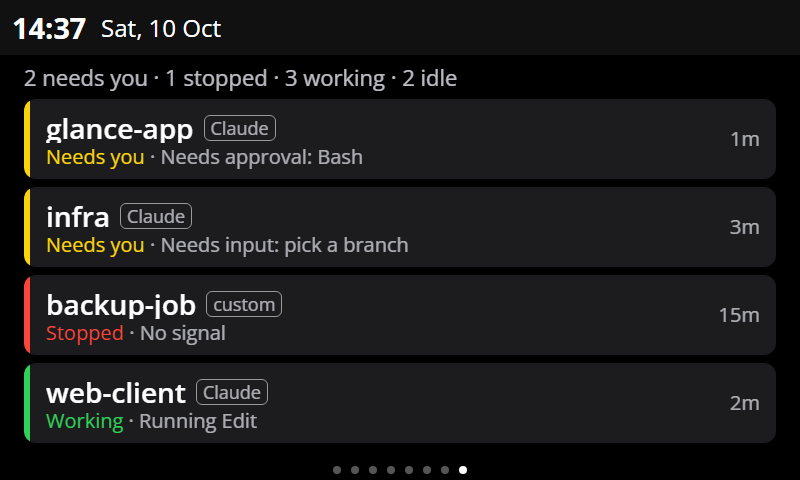
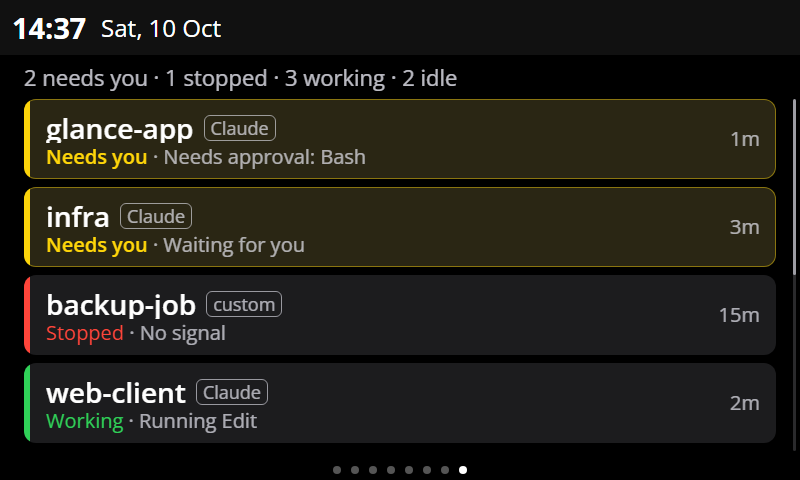
M11 D2: v0.0.16-tabs.12; re-shot screenshots, tabs.all preview variant, tab variants include clock

Changed region(s): [[0.9375, 0.2188, 1.0, 0.9375], [0.0625, 0.5, 0.5312, 0.5625], [0.0625, 0.3125, 0.4688, 0.375]]

diff --git a/scripts/preview/README.md b/scripts/preview/README.md
@@ -14,12 +14,12 @@ node scripts/preview/shoot.mjs <outDir> weather calendar=3 sports=2,2,2 fantasy=
 - Stop the server with `pkill -f "node scripts/preview/[s]erver"` (the brackets stop pkill matching its own shell).
 - Tabs in order: Weather, Calendar, To-do, Sports, Fantasy, Spotify, Clock (index 6), Agents (index 7); the client starts on Weather. Keys `1` = previous tab, `2` = next tab (wraps), `3` = Calendar, `4` = clock sleep screen (any key wakes). Reach a tab by pressing `2` from Weather (To-do = `2,2`, Sports = `2,2,2`), or `3` for Calendar; Clock is `1,1` from Weather (wraps), Agents is `1` (wraps). A bare `name` with no `=keys` shoots the first tab.
 - Variants: `VARIANT_<type>=<name>` when starting the server serves `<type>.<name>.json` instead of `<type>.json`. Weather has `weather.json` (imperial, Chicago), `weather.metric.json` and `weather.none.json` (no location), e.g. `VARIANT_weather=metric node scripts/preview/server.mjs &`. Restart the server to change variant.
-- Tab settings: with no `tabs.json` and no variant the server never answers `{type:'tabs'}` (old-host path, all tabs shown). `VARIANT_tabs=reordered` (`tabs.reordered.json`) puts Sports first; `VARIANT_tabs=hidden` (`tabs.hidden.json`) hides Calendar and To-do.
+- Tab settings: with no `tabs.json` and no variant the server never answers `{type:'tabs'}` (old-host path, all tabs shown). `VARIANT_tabs=reordered` (`tabs.reordered.json`) puts Sports first; `VARIANT_tabs=hidden` (`tabs.hidden.json`) hides Calendar and To-do; `VARIANT_tabs=all` (`tabs.all.json`) is a current host with every tab shown.
 - Connector tabs (M9B): `VARIANT_tabs=connectors` (`tabs.connectors.json`) adds four connector tabs after Agents, indices 8–11: `json:list0001` (Sensors, list), `json:numb0001` (Power, number), `json:keyv0001` (Server, keyvalue), `json:grid0001` (Rooms, grid). Reach them from Weather with `2` eight to eleven times. A `json:<id>` feed is read from `json-<id>.json` (colon becomes hyphen on disk).
 - MCP example: `VARIANT_tabs=mcp` (`tabs.mcp.json`) adds the example MCP tab `mcp:exmp0001` at index 8 (after Agents), read from `mcp-exmp0001.json` (`mcp:` ids use hyphens on disk too).
 - Connector error/stale: `json-list0001.error.json` (stale, error "Public hosts must use https", no items). Start it with `env "VARIANT_json-list0001=error" VARIANT_tabs=connectors node scripts/preview/server.mjs &`. Bash cannot set a hyphenated variable with a plain `VAR=` prefix, so use `env`.
 - Clock (M10): `time.json` (host time 2026-10-10 14:37:25, offset -300, 24 h) feeds the clock and the sleep clock; `clock.json` (digital, all five widgets), `clock.analog.json`, `clock.nowidgets.json` (digital tab, analog sleep, no widgets); `timer.json` (idle) with `timer.running.json`, `timer.paused.json`, `timer.ringing.json` (the alert overlay shows on any tab); `sleep.json` = `"clock"` so key `4` shows the sleep clock. `calendar.clock.json` has an event ending after the fixed host time, so use `VARIANT_calendar=clock` to get all five sleep widgets (the default calendar payload gives four). For missing feeds use `VARIANT_sports=missing VARIANT_fantasy=missing VARIANT_calendar=missing` (no such file = no reply).
-- Agents (M11): `agents.json` (default, no sessions, counts 0: no auto-jump) and variants `VARIANT_agents=mixed` (1 waiting, 2 working, 1 idle; Agents is index 7), `many` (8 sessions, all four states, one custom source), `stopped` (2 stopped, 1 working, 1 idle). `sinceMs` is relative to the `now` in `time.json`.
+- Agents (M11): `agents.json` (default, no sessions, counts 0: no auto-jump) and variants `VARIANT_agents=mixed` (1 waiting, 2 working, 1 idle; Agents is index 7), `many` (8 sessions, all four states, one custom source), `stopped` (2 stopped, 1 working, 1 idle). `sinceMs` is relative to the `now` in `time.json`. Auto-jump waits for the tab list: with no `tabs.json` (older host) it fires only after 3 s, so shoot auto-jump with `VARIANT_tabs=all`.
 
 ## Settings screenshots
 

diff --git a/AGENTS.md b/AGENTS.md
@@ -42,7 +42,7 @@ Electron host (`src/main`, `src/preload`, `src/renderer`) that pushes data over 
 - Desktop Settings screenshots (no Electron): `node scripts/preview/settings.mjs <state>`, states in `scripts/preview/settings-states/` (see `scripts/preview/README.md`).
 - Add an MCP connector recipe: `Workflow({name:'add-connector', args:{url, goal, toolsList, sample}})` (`.claude/workflows/add-connector.js`; inputs are saved files or pasted JSON, never a live call).
 - Recipe helper: `node scripts/mcp-recipe-check.mjs tools|tool|sanitize|id ...` (list read-only tools, check one tool, redact a fixture, check a free recipe id).
-- Screenshots of the client at 800×480 with fake data: see `scripts/preview/README.md`. Tab indices start at Weather (0). `VARIANT_<type>=<name>` serves `payloads/<type>.<name>.json` (weather: `metric`, `none`; tabs: `reordered`, `hidden`, `connectors` (adds four connector tabs, indices 8–11), `mcp` (adds the example MCP tab, index 8); agents: `mixed`, `many`, `stopped` (default empty, so no auto-jump); no `tabs.json` = old host, every tab; Clock is index 6 (`1,1` from Weather), Agents is index 7 (`1` from Weather); clock: `analog`, `nowidgets`; timer: `running`, `paused`, `ringing`; calendar: `clock` (an upcoming event for the sleep widget); key `4` gets the clock sleep screen from `sleep.json`; a variant naming a missing file = no data). Desktop Settings shots: `node scripts/preview/settings.mjs <state>` (state fields `panel`, `outDir`, `height`; `clock` → `docs/m10-screenshots/settings-clock.png`, `agents` → `docs/m11-screenshots/settings-agents.png`). On a Windows PC without global Playwright: `npm i -g --prefix <dir> playwright`, then run with `npm_config_prefix=<dir>` and `PLAYWRIGHT_BROWSERS_PATH=<dir>/browsers` (a path without special characters). Connector error/stale shot: `env "VARIANT_json-list0001=error" VARIANT_tabs=connectors node scripts/preview/server.mjs &` (hyphenated names need `env`).
+- Screenshots of the client at 800×480 with fake data: see `scripts/preview/README.md`. Tab indices start at Weather (0). `VARIANT_<type>=<name>` serves `payloads/<type>.<name>.json` (weather: `metric`, `none`; tabs: `reordered`, `hidden`, `all` (current host, every tab; use it for agents auto-jump shots, since with no `tabs.json` the jump waits 3 s), `connectors` (adds four connector tabs, indices 8–11), `mcp` (adds the example MCP tab, index 8); agents: `mixed`, `many`, `stopped` (default empty, so no auto-jump); no `tabs.json` = old host, every tab; Clock is index 6 (`1,1` from Weather), Agents is index 7 (`1` from Weather); clock: `analog`, `nowidgets`; timer: `running`, `paused`, `ringing`; calendar: `clock` (an upcoming event for the sleep widget); key `4` gets the clock sleep screen from `sleep.json`; a variant naming a missing file = no data). Desktop Settings shots: `node scripts/preview/settings.mjs <state>` (state fields `panel`, `outDir`, `height`; `clock` → `docs/m10-screenshots/settings-clock.png`, `agents` → `docs/m11-screenshots/settings-agents.png`). On a Windows PC without global Playwright: `npm i -g --prefix <dir> playwright`, then run with `npm_config_prefix=<dir>` and `PLAYWRIGHT_BROWSERS_PATH=<dir>/browsers` (a path without special characters). Connector error/stale shot: `env "VARIANT_json-list0001=error" VARIANT_tabs=connectors node scripts/preview/server.mjs &` (hyphenated names need `env`).
 
 ## Agent harness (cascading inference)
 Applies to every milestone session and every prompt written for one.

diff --git a/docs/m11-plan.md b/docs/m11-plan.md
@@ -59,13 +59,13 @@
 | W4.3 | W4 | Agents tab UI | C client/src/modules/agents/{AgentsTab.tsx, AgentsTab.module.css, index.tsx}; M client/src/modules/registry.ts (+ test) | sonnet | W4.1, W4.2 | Chrome 69 safe; dial scroll only when active, not blurred, player hidden; text ≥18 px; gate fast | done (M11 W4.3) |
 | W4.4 | W4 | Auto-jump | C client/src/modules/agents/{autoJump.ts, autoJump.test.ts, useAgentJump.ts}; M TabPager.tsx, TabPager/keys.ts (+ test), App.tsx | sonnet | W4.1, W4.2 | one jump per episode; re-armed after leaving waiting; blocked → not consumed, fires when unblocked; tab hidden → no jump, no wake; `indexForJump` tested | done (M11 W4.4) |
 | W5.1 | W5 | Preview payloads | C scripts/preview/payloads/agents.json (empty), agents.{mixed,many,stopped}.json; M tabs.*.json (add agents), scripts/preview/README.md | haiku | W4.3, W4.4 | server answers each variant | done (M11 W5.1) |
-| W5.2 | W5 | Screenshots | C scripts/preview/settings-states/agents.json; docs/m11-screenshots/*.png | haiku | W5.1, W3.2 | empty, mixed, many scrolled, stopped, settings-agents | done (M11 W5.2) |
+| W5.2 | W5 | Screenshots | C scripts/preview/settings-states/agents.json; docs/m11-screenshots/*.png | haiku | W5.1, W3.2 | empty, mixed, many scrolled, stopped, settings-agents | done (M11 W5.2; re-shot after W5.4/W6.2) |
 | W5.3 | W5 | /apple-design review | report | opus | W5.2 | Critical/High list | done (report: 0 Critical, 2 High) |
 | W5.4 | W5 | Fix Critical/High | per finding | sonnet | W5.3 | re-shot PNGs | done (M11 W5.4) |
 | W6.1 | W6 | Full-diff review | report | opus | W5.4, W2.3 | findings | done (0 Critical/High; 2 Medium, 6 Low) |
 | W6.2 | W6 | Fix review findings | per finding | sonnet | W6.1 | gate fast | done (M11 W6.2 host + client) |
 | D1 | docs | AGENTS.md (files, module, listener/port, `agentsToken`, routes, adapter contract, `agents` message, previews, roadmap); NEW_APP.md "Adding an agent"; HISTORY.md traps | M AGENTS.md, docs/NEW_APP.md, docs/HISTORY.md | sonnet | W6.2 | diff | done (M11 D1; touch-ups after review) |
-| D2 | docs | Bump to 0.0.16-tabs.12 | M package.json, client/package.json, both lockfiles | haiku | D1 | version in all 4 files | todo |
+| D2 | docs | Bump to 0.0.16-tabs.12 | M package.json, client/package.json, both lockfiles | haiku | D1 | version in all 4 files | done (M11 D2) |
 | D3 | – | Full `npm run gate`, draft PR | – | coordinator | D2 | real gate output | todo |
 
 ## Parallelism
